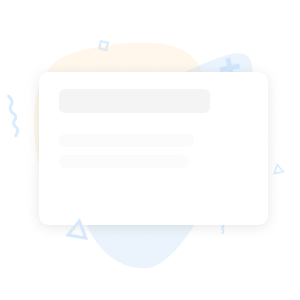
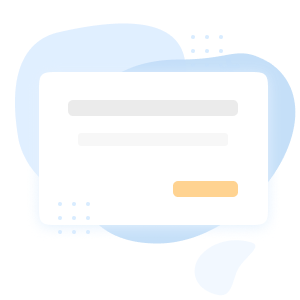
improved cta section and styles

diff --git a/src/components/content.js b/src/components/content.js
@@ -1,25 +1,26 @@
 import React from "react"
 
 import feature from "../images/feature.png"
+import SectionHeader from "./section-header"
 import { COLORS } from "../styles/constants"
 
 const Content = () => (
   <div style={{ padding: "4rem 1rem", textAlign: "center" }}>
-    <h2>Amazing Features</h2>
-    <p style={{ color: COLORS.mediumGray }}>
-      See what it is that really makes us great
-    </p>
+    <SectionHeader
+      title="Amazing Features"
+      description="See what it is that really makes us great"
+    />
     <content
       style={{
         display: "grid",
         alignItems: "center",
         justifyContent: "center",
-        gridTemplateColumns: "repeat(auto-fit, minmax(240px, 440px))",
+        gridTemplateColumns: "repeat(auto-fit, minmax(240px, 340px))",
       }}
     >
       <div>
         <h3>Never Before Seen</h3>
-        <p>
+        <p style={{ color: COLORS.gray }}>
           Thanks to reusable components, this content block can be used again
           and again and again.
         </p>

diff --git a/src/components/footer.js b/src/components/footer.js
@@ -1,7 +1,6 @@
 import React from "react"
 import PropTypes from "prop-types"
 
-import Button from "../components/button"
 import { COLORS } from "../styles/constants"
 
 const Footer = ({ siteTitle }) => (
@@ -21,8 +20,8 @@ const Footer = ({ siteTitle }) => (
         fontSize: ".85rem",
       }}
     >
-      <Button>Get Early Access</Button>
-      <div style={{ color: COLORS.mediumGray }}>
+      <div style={{ color: COLORS.blue, fontWeight: 700 }}>Contact Us</div>
+      <div style={{ color: COLORS.gray }}>
         © {new Date().getFullYear()}
         {` `}
         {siteTitle}

diff --git a/src/components/cta.js b/src/components/cta.js
@@ -1,0 +1,17 @@
+import React from "react"
+
+import Button from "../components/button"
+import SectionHeader from "./section-header"
+
+const CallToAction = () => (
+  <div style={{ padding: "4rem 1rem", textAlign: "center" }}>
+    <SectionHeader
+      title="Stay Updated"
+      description="Find out before anyone else when we launch by signing up for our
+      newsletter."
+    />
+    <Button>Get Early Access</Button>
+  </div>
+)
+
+export default CallToAction

diff --git a/src/pages/index.js b/src/pages/index.js
@@ -4,12 +4,14 @@ import Layout from "../components/layout"
 import SEO from "../components/seo"
 import Hero from "../components/hero"
 import Content from "../components/content"
+import CallToAction from "../components/cta"
 
 const IndexPage = () => (
   <Layout>
     <SEO />
     <Hero />
     <Content />
+    <CallToAction />
   </Layout>
 )
 

diff --git a/src/components/section-header.js b/src/components/section-header.js
@@ -1,0 +1,12 @@
+import React from "react"
+
+import { COLORS } from "../styles/constants"
+
+const SectionHeader = ({ title, description }) => (
+  <>
+    <h2>{title}</h2>
+    <p style={{ color: COLORS.mediumGray }}>{description}</p>
+  </>
+)
+
+export default SectionHeader

diff --git a/src/styles/constants.js b/src/styles/constants.js
@@ -1,7 +1,8 @@
 export const COLORS = {
   lightWhite: "#FBFDFF",
   lightGray: "#F3F5F6",
-  mediumGray: "#a0a4a6",
+  mediumGray: "#B0B8BA",
+  gray: "#A0A4A6",
   babyBlue: "#50CAF9",
   blue: "#5368f1",
 }
